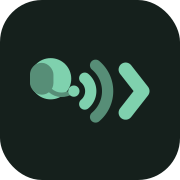
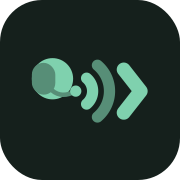
Brand: the arrow moves two units in, and regen.py derives the rest
The chevron sat 2.85 units off the outer ring on the 120-unit tile, in
rhythm with the 3.0 between the rings, but the ring curves away and the
62% opacity makes it recede, so it read as a separate object. At 0.85 it
continues the rings instead: the mark is one thing.

Moved in all three masters (mark, adaptive foreground, notification) and
each lockup re-centred by half the width it lost, so the margins stay
even. Every PNG regenerated; sizes and colour modes are unchanged.

brand/regen.py replaces the "see the session notes" in the README: the
whole icon set from the three SVGs, one command.

diff --git a/brand/regen.py b/brand/regen.py
@@ -1,0 +1,41 @@
+#!/usr/bin/env python3
+"""Regenerate every derived icon from the SVG masters. Nothing here is hand-edited.
+
+  python3 brand/regen.py
+
+Masters: sasonica-mark.svg (the mark on its tile), android/ic_launcher_foreground.svg
+(adaptive foreground, mark inside the 66 dp safe zone), android/ic_notification.svg
+(one colour, alpha only).
+"""
+import pathlib, shutil
+import cairosvg
+
+HERE = pathlib.Path(__file__).parent
+MARK = HERE / "sasonica-mark.svg"
+FOREGROUND = HERE / "android/ic_launcher_foreground.svg"
+NOTIFICATION = HERE / "android/ic_notification.svg"
+
+DENSITIES = {"mdpi": 1, "hdpi": 1.5, "xhdpi": 2, "xxhdpi": 3, "xxxhdpi": 4}
+
+
+def png(master, out, px, background=None):
+    out.parent.mkdir(parents=True, exist_ok=True)
+    cairosvg.svg2png(url=str(master), write_to=str(out),
+                     output_width=px, output_height=px,
+                     background_color=background)
+    print(f"{out.relative_to(HERE)}  {px}x{px}")
+
+
+for density, scale in DENSITIES.items():
+    png(MARK, HERE / f"android/mipmap-{density}/ic_launcher.png", int(48 * scale))
+    png(FOREGROUND, HERE / f"android/mipmap-{density}/ic_launcher_foreground.png", int(108 * scale))
+    png(NOTIFICATION, HERE / f"android/drawable-{density}/ic_notification.png", int(24 * scale))
+
+# The Play Store tile must be opaque — no alpha channel allowed.
+png(MARK, HERE / "android/playstore-512.png", 512, background="#15201c")
+
+shutil.copyfile(MARK, HERE / "web/favicon.svg")
+print("web/favicon.svg  <- master")
+for name, px in [("favicon-32.png", 32), ("apple-touch-icon.png", 180),
+                 ("icon-192.png", 192), ("icon-512.png", 512)]:
+    png(MARK, HERE / "web" / name, px)

diff --git a/brand/README.md b/brand/README.md
@@ -23,4 +23,4 @@ Files:
   rings, arrow — the cup and boom are too fine at 24 dp), `playstore-512.png`.
 - `web/` — `favicon.svg`, `favicon-32.png`, `apple-touch-icon.png`, `icon-192.png`, `icon-512.png`.
 
-Regenerate from the master with cairosvg (see the session notes); every size is derived, never hand-edited.
+Regenerate every derived size with `python3 brand/regen.py` (needs cairosvg); they are derived, never hand-edited.
